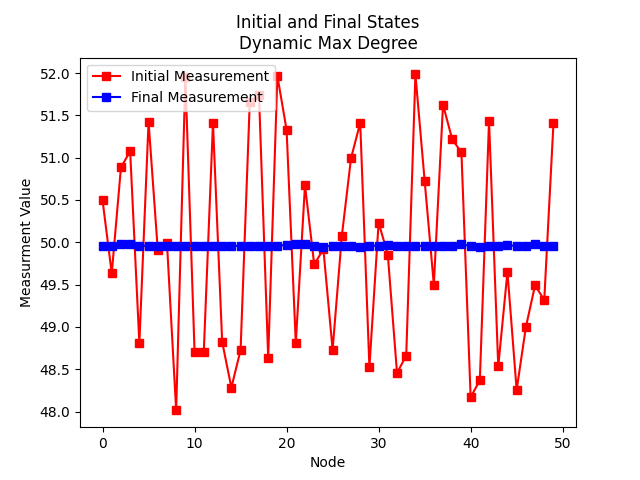
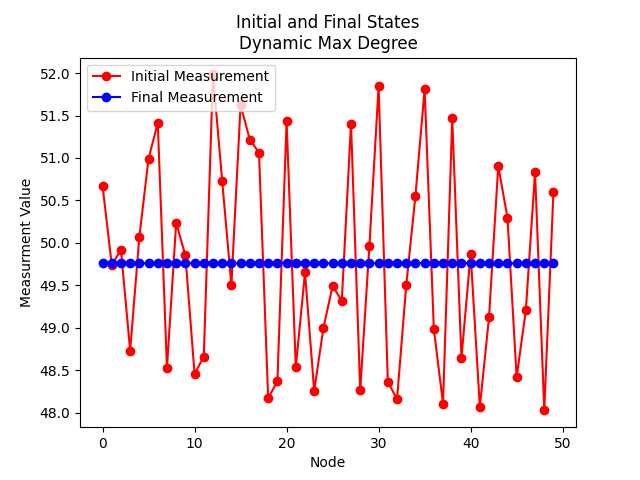
done

diff --git a/project3.py b/project3.py
@@ -126,30 +126,28 @@ def getMetropolisWeightsOfij(nodePositions, i, j):
         return 0
 
 def createPlots(measurements, maxNode, minNode, case, baseFilename):
-    plotError(measurements, case, baseFilename)
+    plotErrorConvergence(measurements, case, baseFilename)
     plotFinalInital(measurements, case, baseFilename)
     plotMSEConverg(measurements, case, baseFilename)
-    plotMostNeighborsError(measurements, maxNode, case, baseFilename)
-    plotMostNeighborsSquareError(measurements, maxNode, case, baseFilename)
-    plotMinNeighborsError(measurements, minNode, case, baseFilename)
-    plotMinNeighborsSquareError(measurements, minNode, case, baseFilename)
+    plotMostMinNeighborsError(measurements, maxNode, minNode, case, baseFilename)
+    plotMostMinNeighborsSquareError(measurements, maxNode, minNode, case, baseFilename)
 
-def plotError(measurements, case, baseFileName):
+def plotErrorConvergence(measurements, case, baseFileName):
     plt.clf()
     for i in range(NUM_NODES):
         plt.plot(GROUND_TRUTH - measurements[i, :])
-    plt.title("Raw Error\n" + case)
+    plt.title("Error Convergence\n" + case)
     plt.xlabel("Iteration")
     plt.ylabel("Raw Error")
-    plt.savefig(baseFileName + "/" + baseFileName + "_rawError.png")
+    plt.savefig(baseFileName + "/" + baseFileName + "_ConvergenceError.png")
 
 def plotFinalInital(measurements, case, baseFileName):
     plt.clf()
     plt.title("Initial and Final States\n" + case)
     plt.xlabel("Node")
     plt.ylabel("Measurment Value")
-    plt.plot(measurements[:, 0], color = "red", marker = "s", label = "Initial Measurement")
-    plt.plot(measurements[:, measurements.shape[1] - 1], color = "blue", marker = "s", label = "Final Measurement")
+    plt.plot(measurements[:, 0], color = "red", marker = "o", label = "Initial Measurement")
+    plt.plot(measurements[:, measurements.shape[1] - 1], color = "blue", marker = "o", label = "Final Measurement")
     plt.legend(loc = "upper left")
     plt.savefig(baseFileName + "/" + baseFileName + "_finalInitial.png")
 
@@ -162,37 +160,26 @@ def plotMSEConverg(measurements, case, baseFileName):
         plt.plot((GROUND_TRUTH - measurements[i, :])**2)
     plt.savefig(baseFileName + "/" + baseFileName + "_meanSquareConergenve.png")
 
-def plotMostNeighborsError(measurements, maxNode, case, baseFileName):
+def plotMostMinNeighborsError(measurements, maxNode, minNode, case, baseFileName):
     plt.clf()
-    plt.title("Most Neighbors Error\n" + case)
+    plt.title("Max and Min Neighbor Error Convergence\n" + case)
     plt.xlabel("Error")
     plt.ylabel("Iteration")
-    plt.plot(GROUND_TRUTH - measurements[maxNode, :])
-    plt.savefig(baseFileName + "/" + baseFileName + "_maxNeighborsError")
+    plt.plot(GROUND_TRUTH - measurements[maxNode, :], label = "Max Neighbors")
+    plt.plot(GROUND_TRUTH - measurements[minNode, :], label = "Min Neighbors")
+    plt.legend(loc = "upper right")
+    plt.savefig(baseFileName + "/" + baseFileName + "_maxMinNeighborsErrorConvergence")
 
-def plotMostNeighborsSquareError(measurements, maxNode, case, baseFileName):
+def plotMostMinNeighborsSquareError(measurements, maxNode, minNode, case, baseFileName):
     plt.clf()
-    plt.title("Most Neighbors Square Error\n" + case)
+    plt.title("Max and Min Neighbor Mean Square Error Convergence\n" + case)
     plt.xlabel("Error")
     plt.ylabel("Iteration")
-    plt.plot((GROUND_TRUTH - measurements[maxNode, :])**2)
-    plt.savefig(baseFileName + "/" + baseFileName + "_maxNeighborsSquareError")
+    plt.plot((GROUND_TRUTH - measurements[maxNode, :])**2, label = "Max Neighbors")
+    plt.plot((GROUND_TRUTH - measurements[minNode, :])**2, label = "Min Neighbors")
+    plt.legend(loc = "upper right")
+    plt.savefig(baseFileName + "/" + baseFileName + "_maxMinNeighborsMSEConvergence")
 
-def plotMinNeighborsError(measurements, minNode, case, baseFileName):
-    plt.clf()
-    plt.title("Least Neighbors Error\n" + case)
-    plt.xlabel("Error")
-    plt.ylabel("Iteration")
-    plt.plot(GROUND_TRUTH - measurements[minNode, :])
-    plt.savefig(baseFileName + "/" + baseFileName + "_minNeighborsError")
-
-def plotMinNeighborsSquareError(measurements, minNode, case, baseFileName):
-    plt.clf()
-    plt.title("Least Neighbors Square Error\n" + case)
-    plt.xlabel("Error")
-    plt.ylabel("Iteration")
-    plt.plot((GROUND_TRUTH - measurements[minNode, :])**2)
-    plt.savefig(baseFileName + "/" + baseFileName + "_minNeighborsSquareError")
 
 def main():
 
@@ -216,9 +203,9 @@ def main():
 
     # setup initial states
     measures = GROUND_TRUTH + np.random.uniform(size=(NUM_NODES, 1), high=VARIANCE, low=-VARIANCE)
-    nodePositions = np.random.randint(low = 0, high = 70, size = (DIMENSIONS, NUM_NODES))
+    nodePositions = np.random.randint(low = 0, high = 50, size = (DIMENSIONS, NUM_NODES))
     allMeasures = measures.copy()
-    plotNodesAndSave(nodePositions, "test.png")
+    plotNodesAndSave(nodePositions, "network.png")
 
     # get the node with min and max neighbors
     minNeighborsNode = -1
@@ -240,7 +227,7 @@ def main():
     #################################
 
     print("=" * 20, " BEGINNING STATIC MAX DEGREE SIMULATION ", "=" * 20)
-    for i in range(200):
+    for i in range(500):
         measures = updateMeasurements(measures, nodePositions, "maxdegree")
         allMeasures = np.concatenate((allMeasures, measures.copy()), axis = 1)
         print("| COMPLETED ITERATION: ", i, " " * 53, "|")
@@ -253,7 +240,6 @@ def main():
     #################################
 
     measures = GROUND_TRUTH + np.random.uniform(size=(NUM_NODES, 1), high=VARIANCE, low=-VARIANCE)
-    nodePositions = np.random.randint(low = 0, high = 70, size = (DIMENSIONS, NUM_NODES))
     allMeasures = measures.copy()
     print("=" * 20, " BEGINNING STATIC METROPOLIS SIMULATION ", "=" * 20)
     for i in range(200):
@@ -268,9 +254,11 @@ def main():
     # CASE THREE DYANMIC - MAX DEGREE
     #################################
     global R
+    measures = GROUND_TRUTH + np.random.uniform(size=(NUM_NODES, 1), high=VARIANCE, low=-VARIANCE)
+    allMeasures = measures.copy()
     print("=" * 20, " BEGINNING DYNAMIC MAX DEGREE SIMULATION ", "=" * 20)
-    for i in range(200):
-        R = R - np.random.uniform(-1, 1)
+    for i in range(500):
+        R = R - np.random.uniform(-0.5, 0.5)
         measures = updateMeasurements(measures, nodePositions, "maxdegree")
         allMeasures = np.concatenate((allMeasures, measures.copy()), axis = 1)
         print("| COMPLETED ITERATION: ", i, " " * 53, "|")
@@ -283,11 +271,10 @@ def main():
     #################################
     R = 15
     measures = GROUND_TRUTH + np.random.uniform(size=(NUM_NODES, 1), high=VARIANCE, low=-VARIANCE)
-    nodePositions = np.random.randint(low = 0, high = 70, size = (DIMENSIONS, NUM_NODES))
     allMeasures = measures.copy()
     print("=" * 20, " BEGINNING DYNAMIC METROPOLIS SIMULATION ", "=" * 20)
     for i in range(200):
-        R = R - np.random.uniform(-1, 1)
+        R = R - np.random.uniform(-0.5, 0.5)
         measures = updateMeasurements(measures, nodePositions, "metropolis")
         allMeasures = np.concatenate((allMeasures, measures.copy()), axis = 1)
         print("| COMPLETED ITERATION: ", i, " " * 53, "|")
